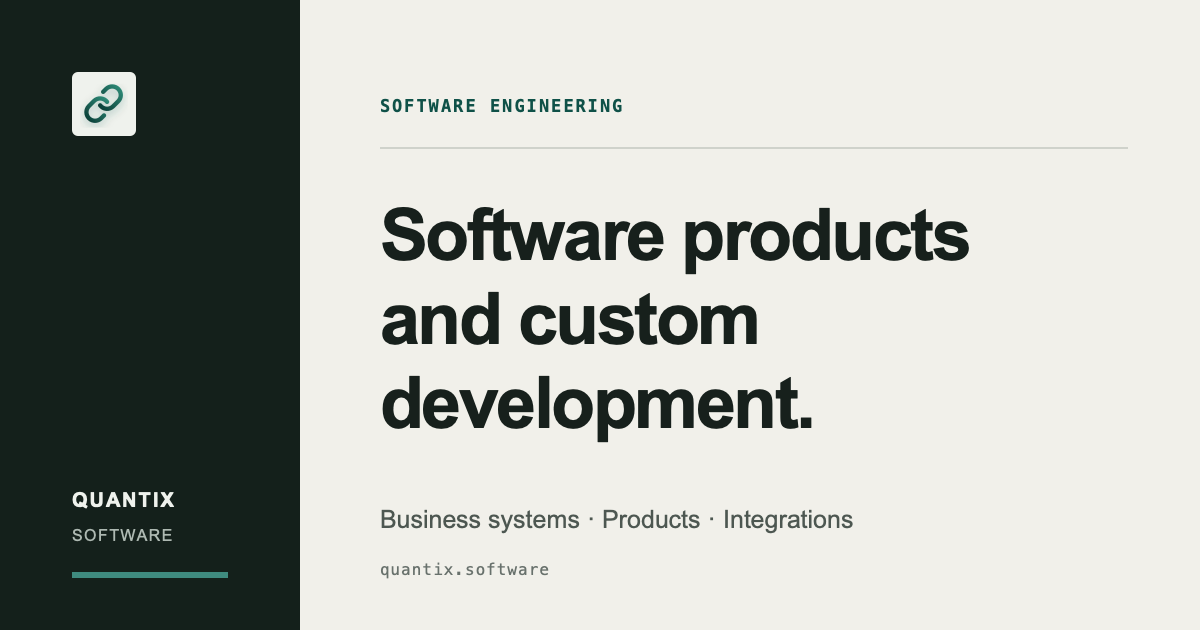
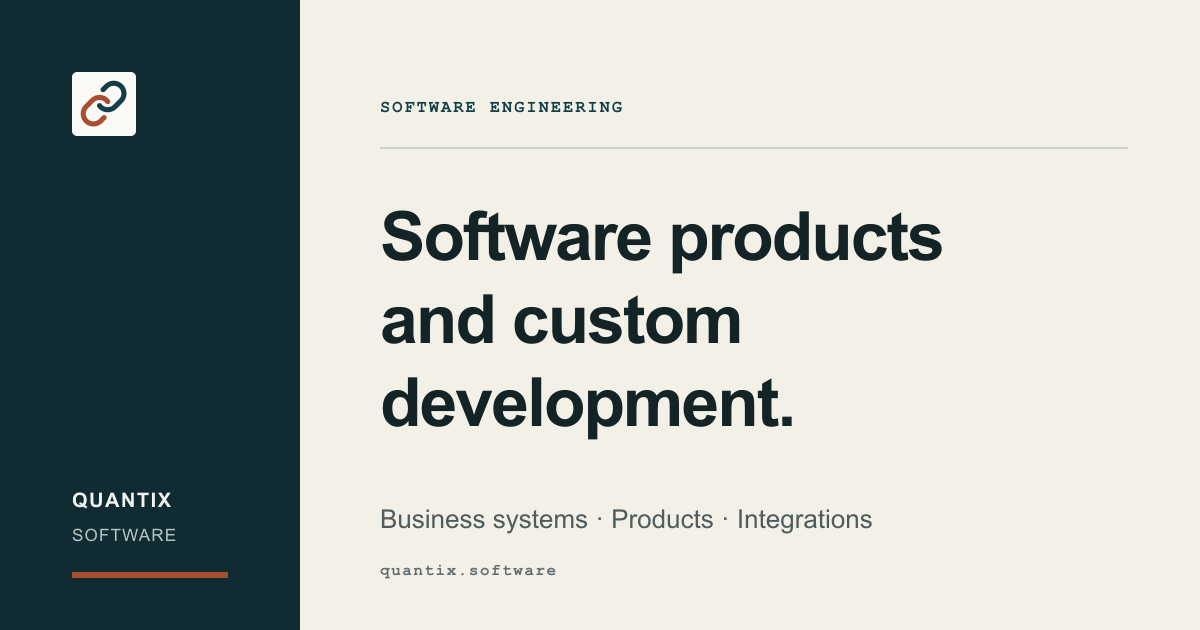
feat: adopt petroleum and copper brand palette

diff --git a/src/styles/tokens.css b/src/styles/tokens.css
@@ -1,30 +1,31 @@
 :root {
   color-scheme: light;
 
-  --color-canvas: #f1f0ea;
+  --color-canvas: #f3f0e8;
   --color-surface: #fbfaf6;
   --color-surface-raised: #ffffff;
-  --color-surface-muted: #e8e8e1;
-  --color-ink: #17201c;
-  --color-ink-muted: #4d5751;
-  --color-ink-subtle: #646d68;
-  --color-border: #d3d4cc;
-  --color-border-strong: #aeb4ad;
-  --color-primary: #0f5148;
-  --color-primary-hover: #0a3d36;
-  --color-primary-soft: #dce8e2;
-  --color-accent: #a94828;
-  --color-accent-soft: #f2e2da;
+  --color-surface-muted: #e7e9e5;
+  --color-ink: #142326;
+  --color-ink-muted: #4f5c5d;
+  --color-ink-subtle: #626e70;
+  --color-border: #d0d4cf;
+  --color-border-strong: #aab3af;
+  --color-primary: #123f46;
+  --color-primary-hover: #0b2d33;
+  --color-primary-soft: #dce7e7;
+  --color-accent: #a94f2f;
+  --color-accent-soft: #f1e1d9;
   --color-success: #176447;
   --color-warning: #8a5b12;
   --color-danger: #9d2f3f;
-  --color-focus: #096b5f;
-  --color-focus-inverse: #82dfcf;
-  --color-overlay: rgb(15 22 19 / 0.62);
-  --color-inverse: #eff2ed;
-  --color-inverse-muted: #aeb9b2;
-  --color-dark: #14201b;
-  --color-dark-raised: #1d2a24;
+  --color-focus: #96502f;
+  --color-focus-inverse: #f4a47d;
+  --color-overlay: rgb(11 26 30 / 0.68);
+  --color-inverse: #f2f4f1;
+  --color-inverse-muted: #b8c5c4;
+  --color-dark: #102c32;
+  --color-dark-raised: #193b42;
+  --color-dark-deep: #0b2227;
 
   --product-viggo: #5147bd;
   --product-viggo-soft: #e8e6f5;
@@ -75,10 +76,10 @@
   --radius-xl: 0.75rem;
   --radius-pill: 999px;
 
-  --shadow-sm: 0 1px 2px rgb(23 32 28 / 0.05);
-  --shadow-md: 0 18px 45px -32px rgb(23 32 28 / 0.42);
-  --shadow-lg: 0 32px 70px -42px rgb(23 32 28 / 0.5);
-  --focus-ring: 0 0 0 3px rgb(9 107 95 / 0.28);
+  --shadow-sm: 0 1px 2px rgb(20 35 38 / 0.05);
+  --shadow-md: 0 18px 45px -32px rgb(20 35 38 / 0.42);
+  --shadow-lg: 0 32px 70px -42px rgb(20 35 38 / 0.5);
+  --focus-ring: 0 0 0 3px rgb(150 80 47 / 0.3);
 
   --container: 78rem;
   --container-narrow: 48rem;
